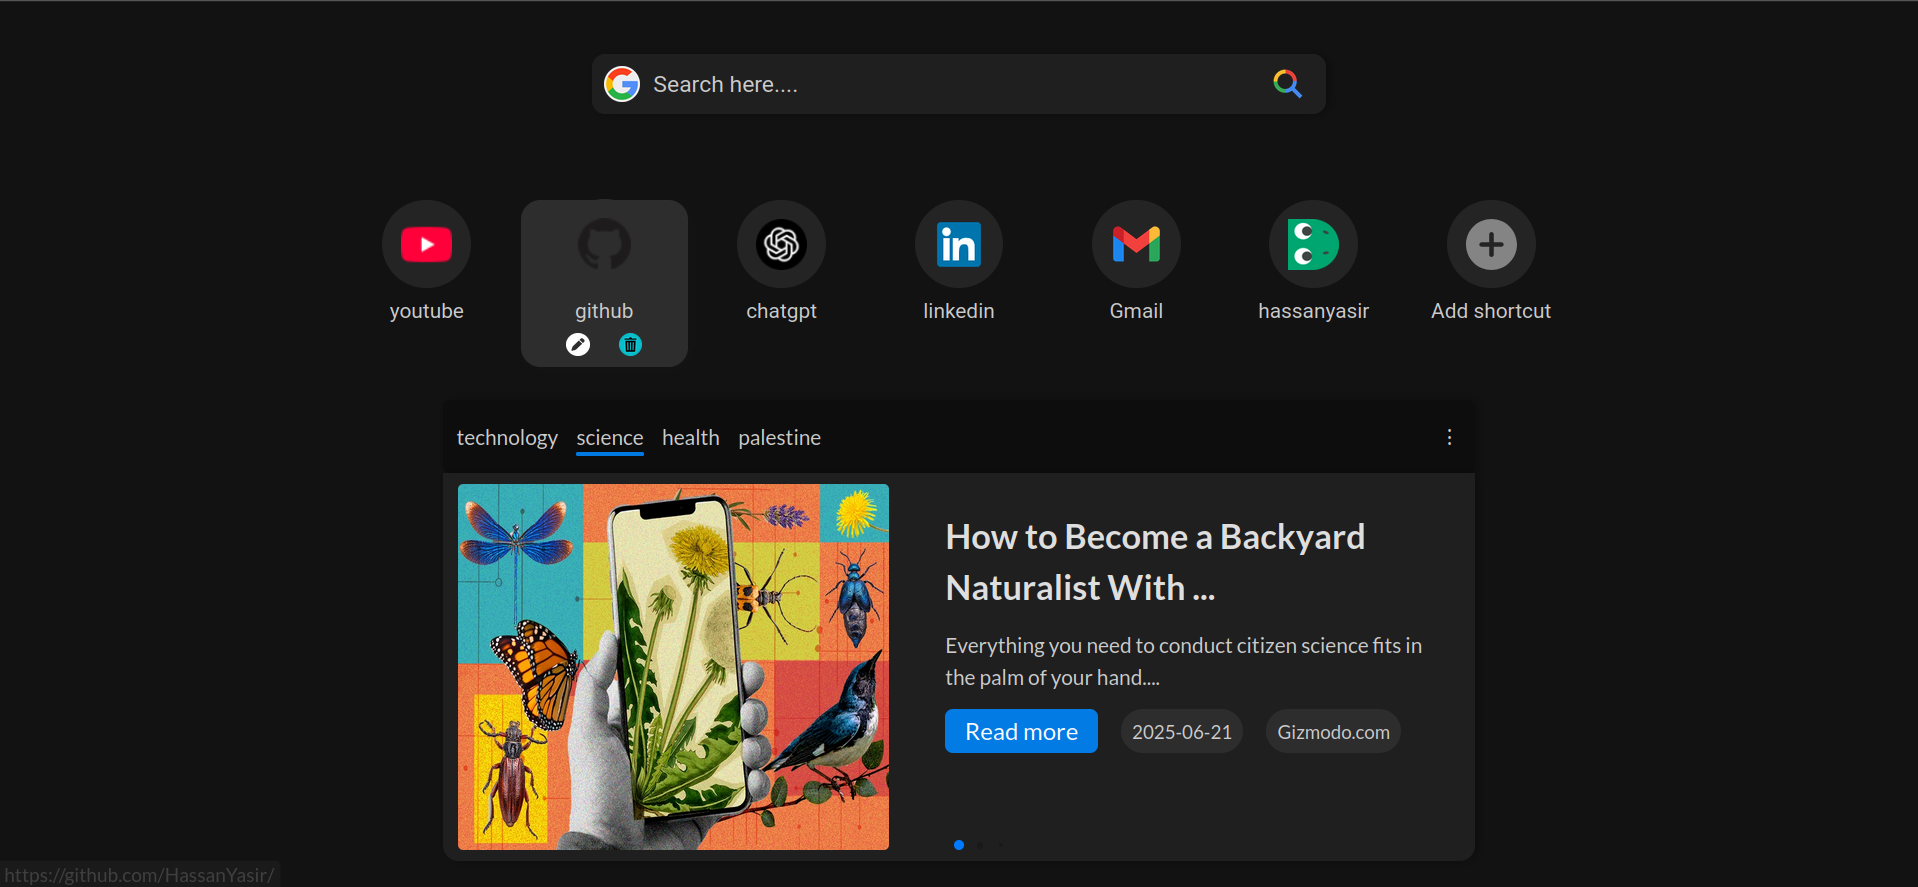
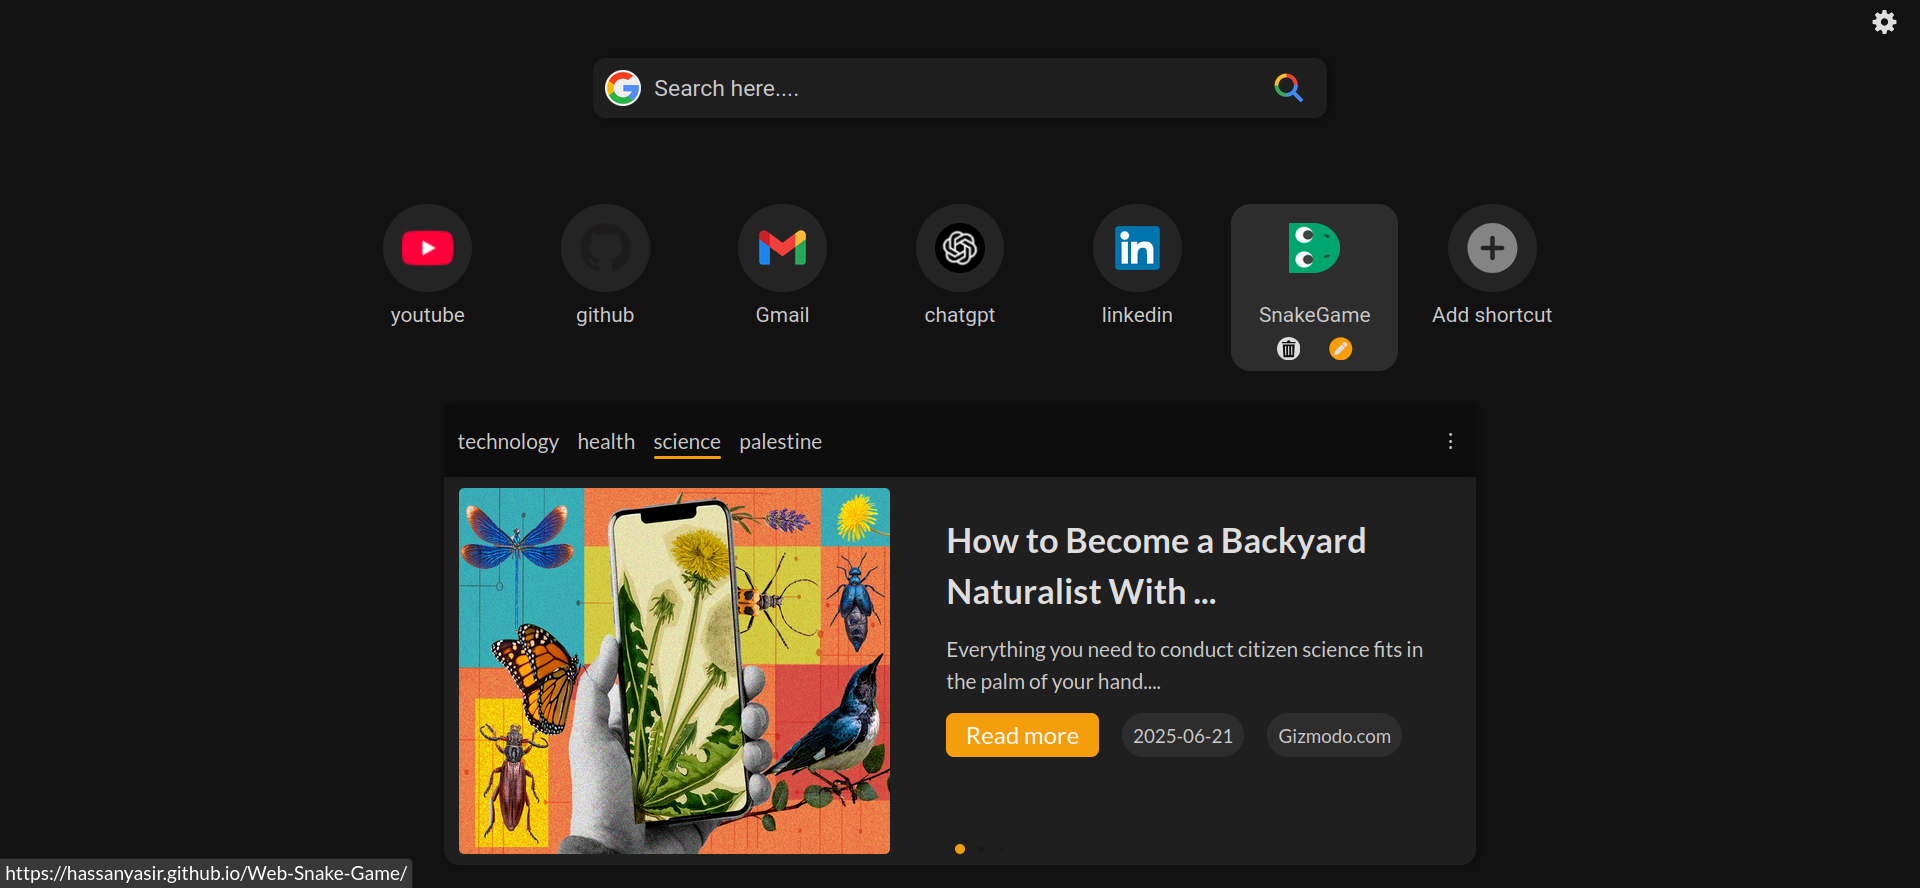
added some features

diff --git a/src/App.css b/src/App.css
@@ -7,6 +7,7 @@
 
 .home-nav{
   width: 100vw;
+  margin-block-start: 2px;
 
 }
 .nav .right{
@@ -34,7 +35,7 @@ cursor: pointer;
   /* background-color: rgba(68, 85, 102, 0.429); */
   align-items: center;
   justify-content: center;
-  margin-block-start: 1.3rem;
+  margin-block-start: 0.8rem;
   margin-block-end: 2.5rem;
 }
 
@@ -332,6 +333,7 @@ font-style: normal;
 }
 .cancel{
   width: 1.4rem;
+  height: 1.4rem;
   color: inherit;
   background-color:var(--bg-dark-5);
   display: flex;
@@ -576,6 +578,39 @@ color:var(--text-white-dull);
   margin-left: auto;
   margin-right: 17px ;
 }
+
+.btn-cont-setting{
+  display: flex;
+  width: 100%;
+  /* background-color: #54e051bb; */
+  justify-content: flex-end;
+  position: absolute;
+}
+.close-settings{
+  display: flex;
+  width: 1.4rem;
+  height: 1.4rem;
+  background-color:var(--bg-dark-3);
+  margin-right: 1rem;
+  align-items: center;
+  justify-content: center;
+  border-radius: 50%;
+
+}
+.close-settings:nth-child(1){
+  color: inherit;
+  font-size: 1.2rem;
+  transition:all 0.3s ease-out;
+  
+  
+}
+.close-settings:nth-child(1):hover{
+  filter: brightness(90%);
+  background-color: var(--main-color);
+  cursor: pointer;
+  
+}
+
 .opt-container{
   display: flex;
   gap: 14px;
@@ -690,6 +725,9 @@ color:var(--text-white-dull);
 
 
 }
+
+
+
 .news-btn{
   /* background-color: #0084f7e8; */
   background-color: var(--main-color);

diff --git a/src/components/Settings.jsx b/src/components/Settings.jsx
@@ -121,13 +121,8 @@ function Settings({toggleSetting}) {
 
           </div>
         </div>
-        <div className="btn-cont">
-          <button className="dialog-btn-C" onClick={toggleSetting}>
-            Cancel
-          </button>
-          <button className="dialog-btn-S" onClick={toggleSetting}>
-            Save
-          </button>
+        <div className="btn-cont-setting">
+          <div className="close-settings" onClick={toggleSetting}><div className="close-child">&#x2715;</div></div>
         </div>
         
       </div>

diff --git a/src/index.css b/src/index.css
@@ -11,7 +11,7 @@
 
   --text-white-dull:#CCC;
   --main-color:#0084f7;
-  /* --main-color:#4caf50; */
+  --swiper-theme-color:var(--main-color);
   color-scheme: light dark;
   color:hsl(0, 0%, 87%);
   background-color: var(--bg-dark-1);
